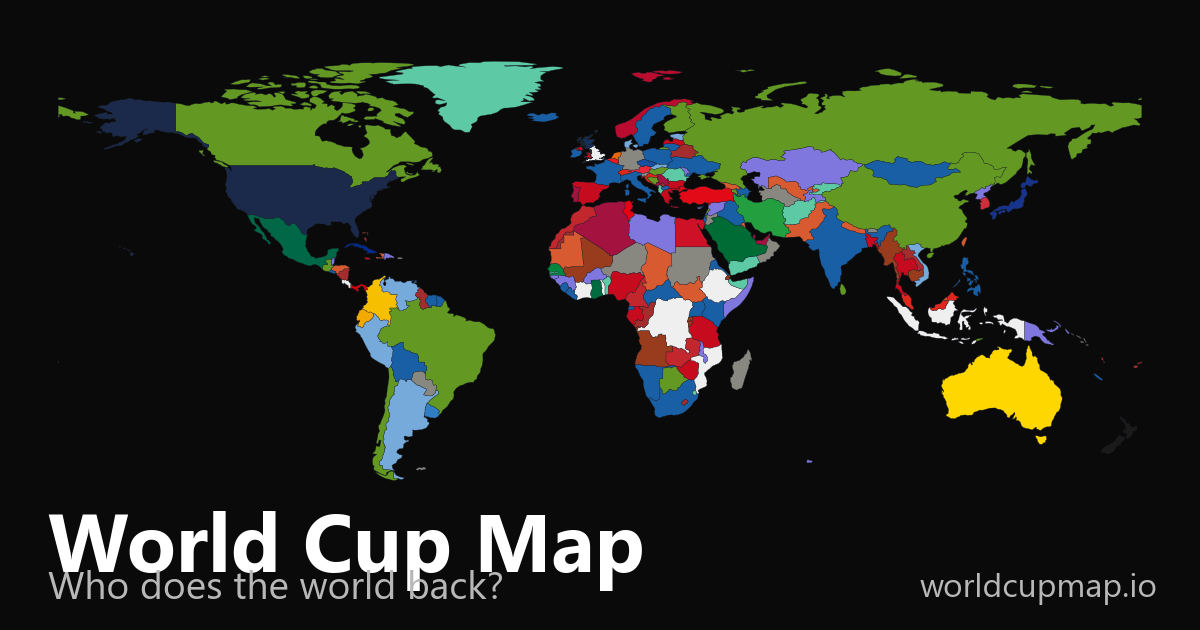
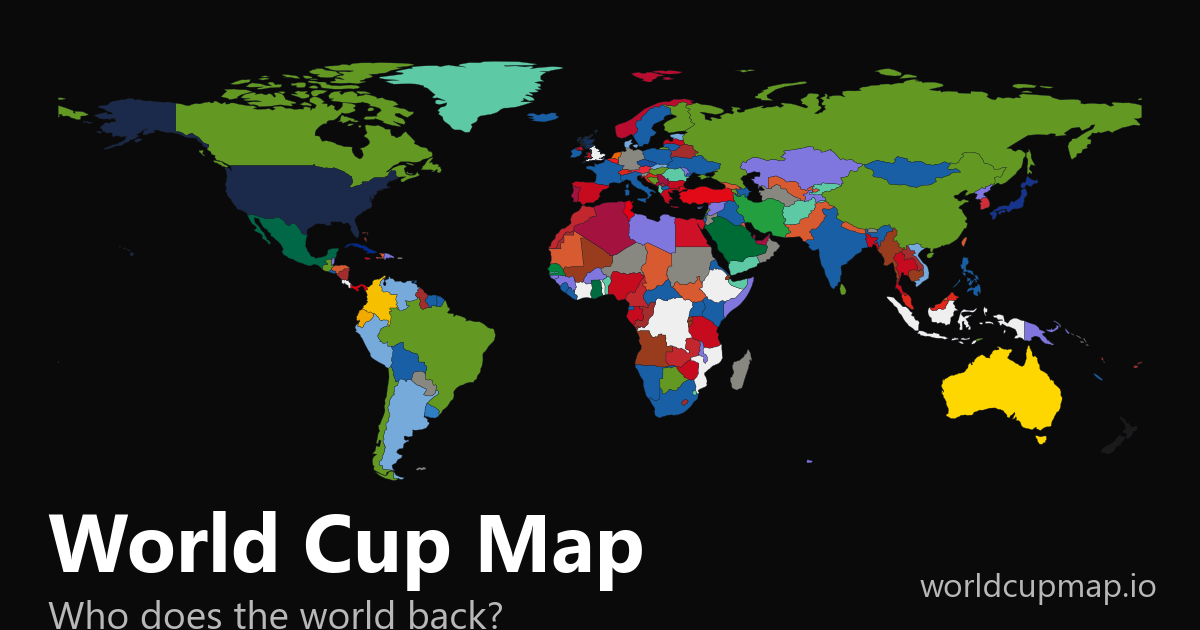
fix: add breathing room between OG title and subtitle
Lower subtitle by 30px so descenders no longer crowd the line below.

Changed region(s): [[0.0308, 0.9048, 0.4317, 1.0]]

diff --git a/scripts/generate-og-image.py b/scripts/generate-og-image.py
@@ -37,7 +37,8 @@ MAP_AXES = (0.035, 0.17, 0.93, 0.80)
 TEXT_X = 0.04
 URL_X = 0.965
 TITLE_Y = 0.125
-SUBTITLE_Y = 0.065
+TITLE_SUBTITLE_GAP_PX = 30
+SUBTITLE_Y = 0.065 - TITLE_SUBTITLE_GAP_PX / H
 URL_Y = 0.065
 TITLE_SIZE = 58
 SUBTITLE_SIZE = 28
